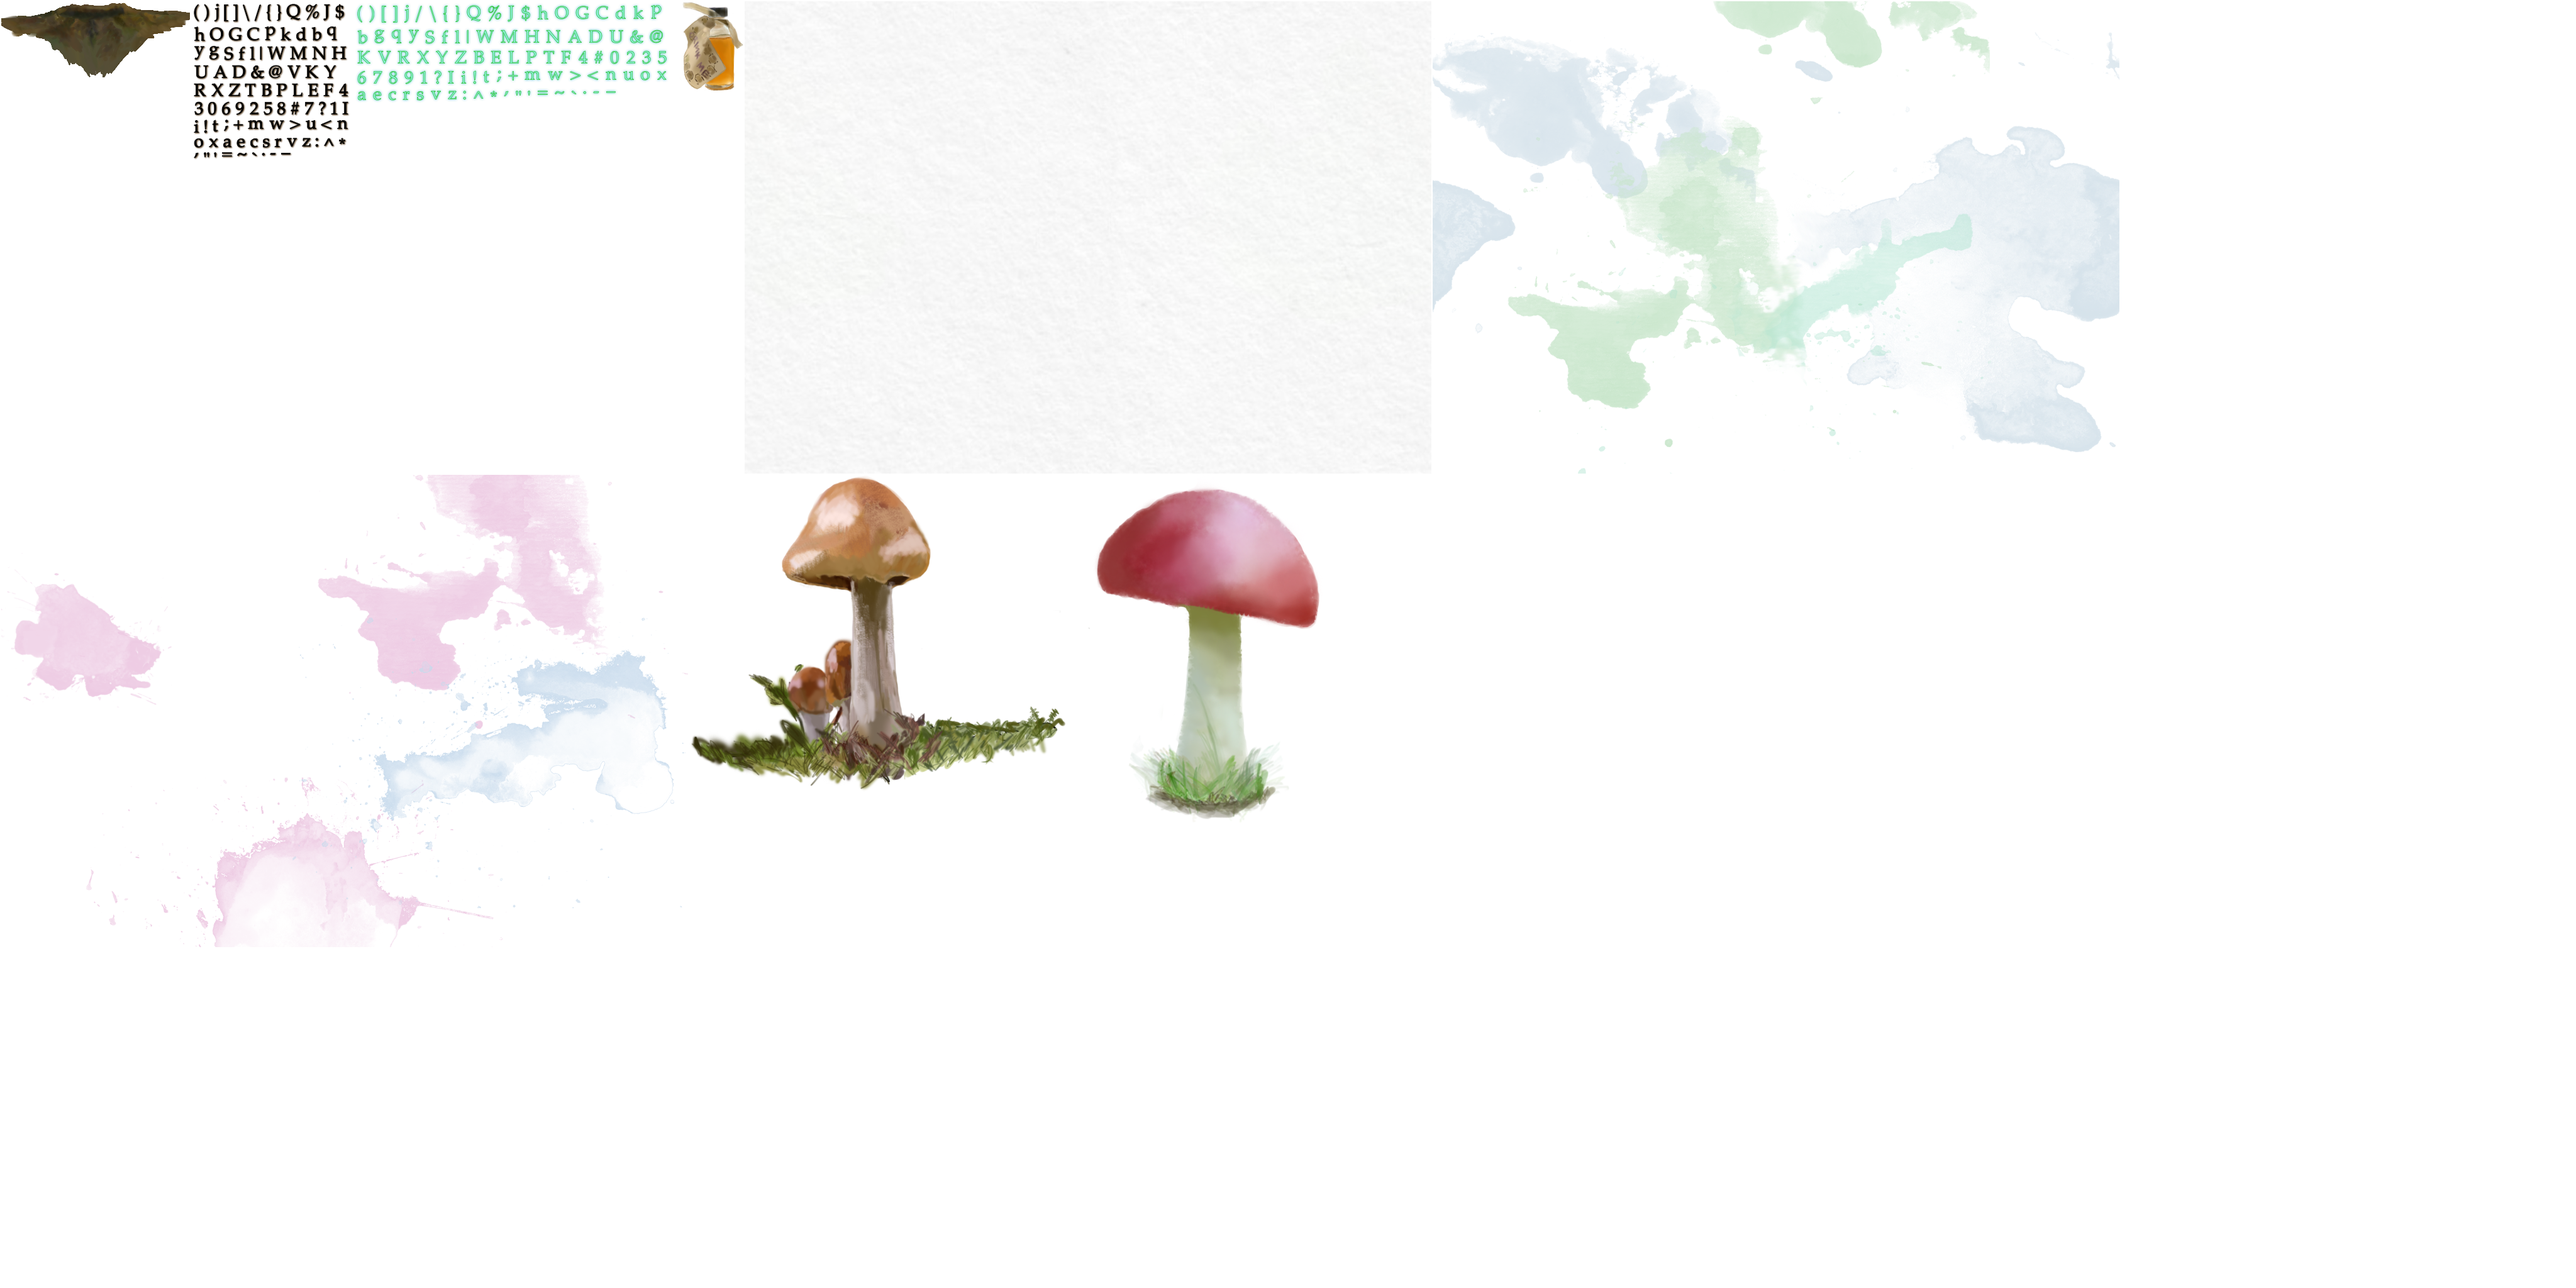
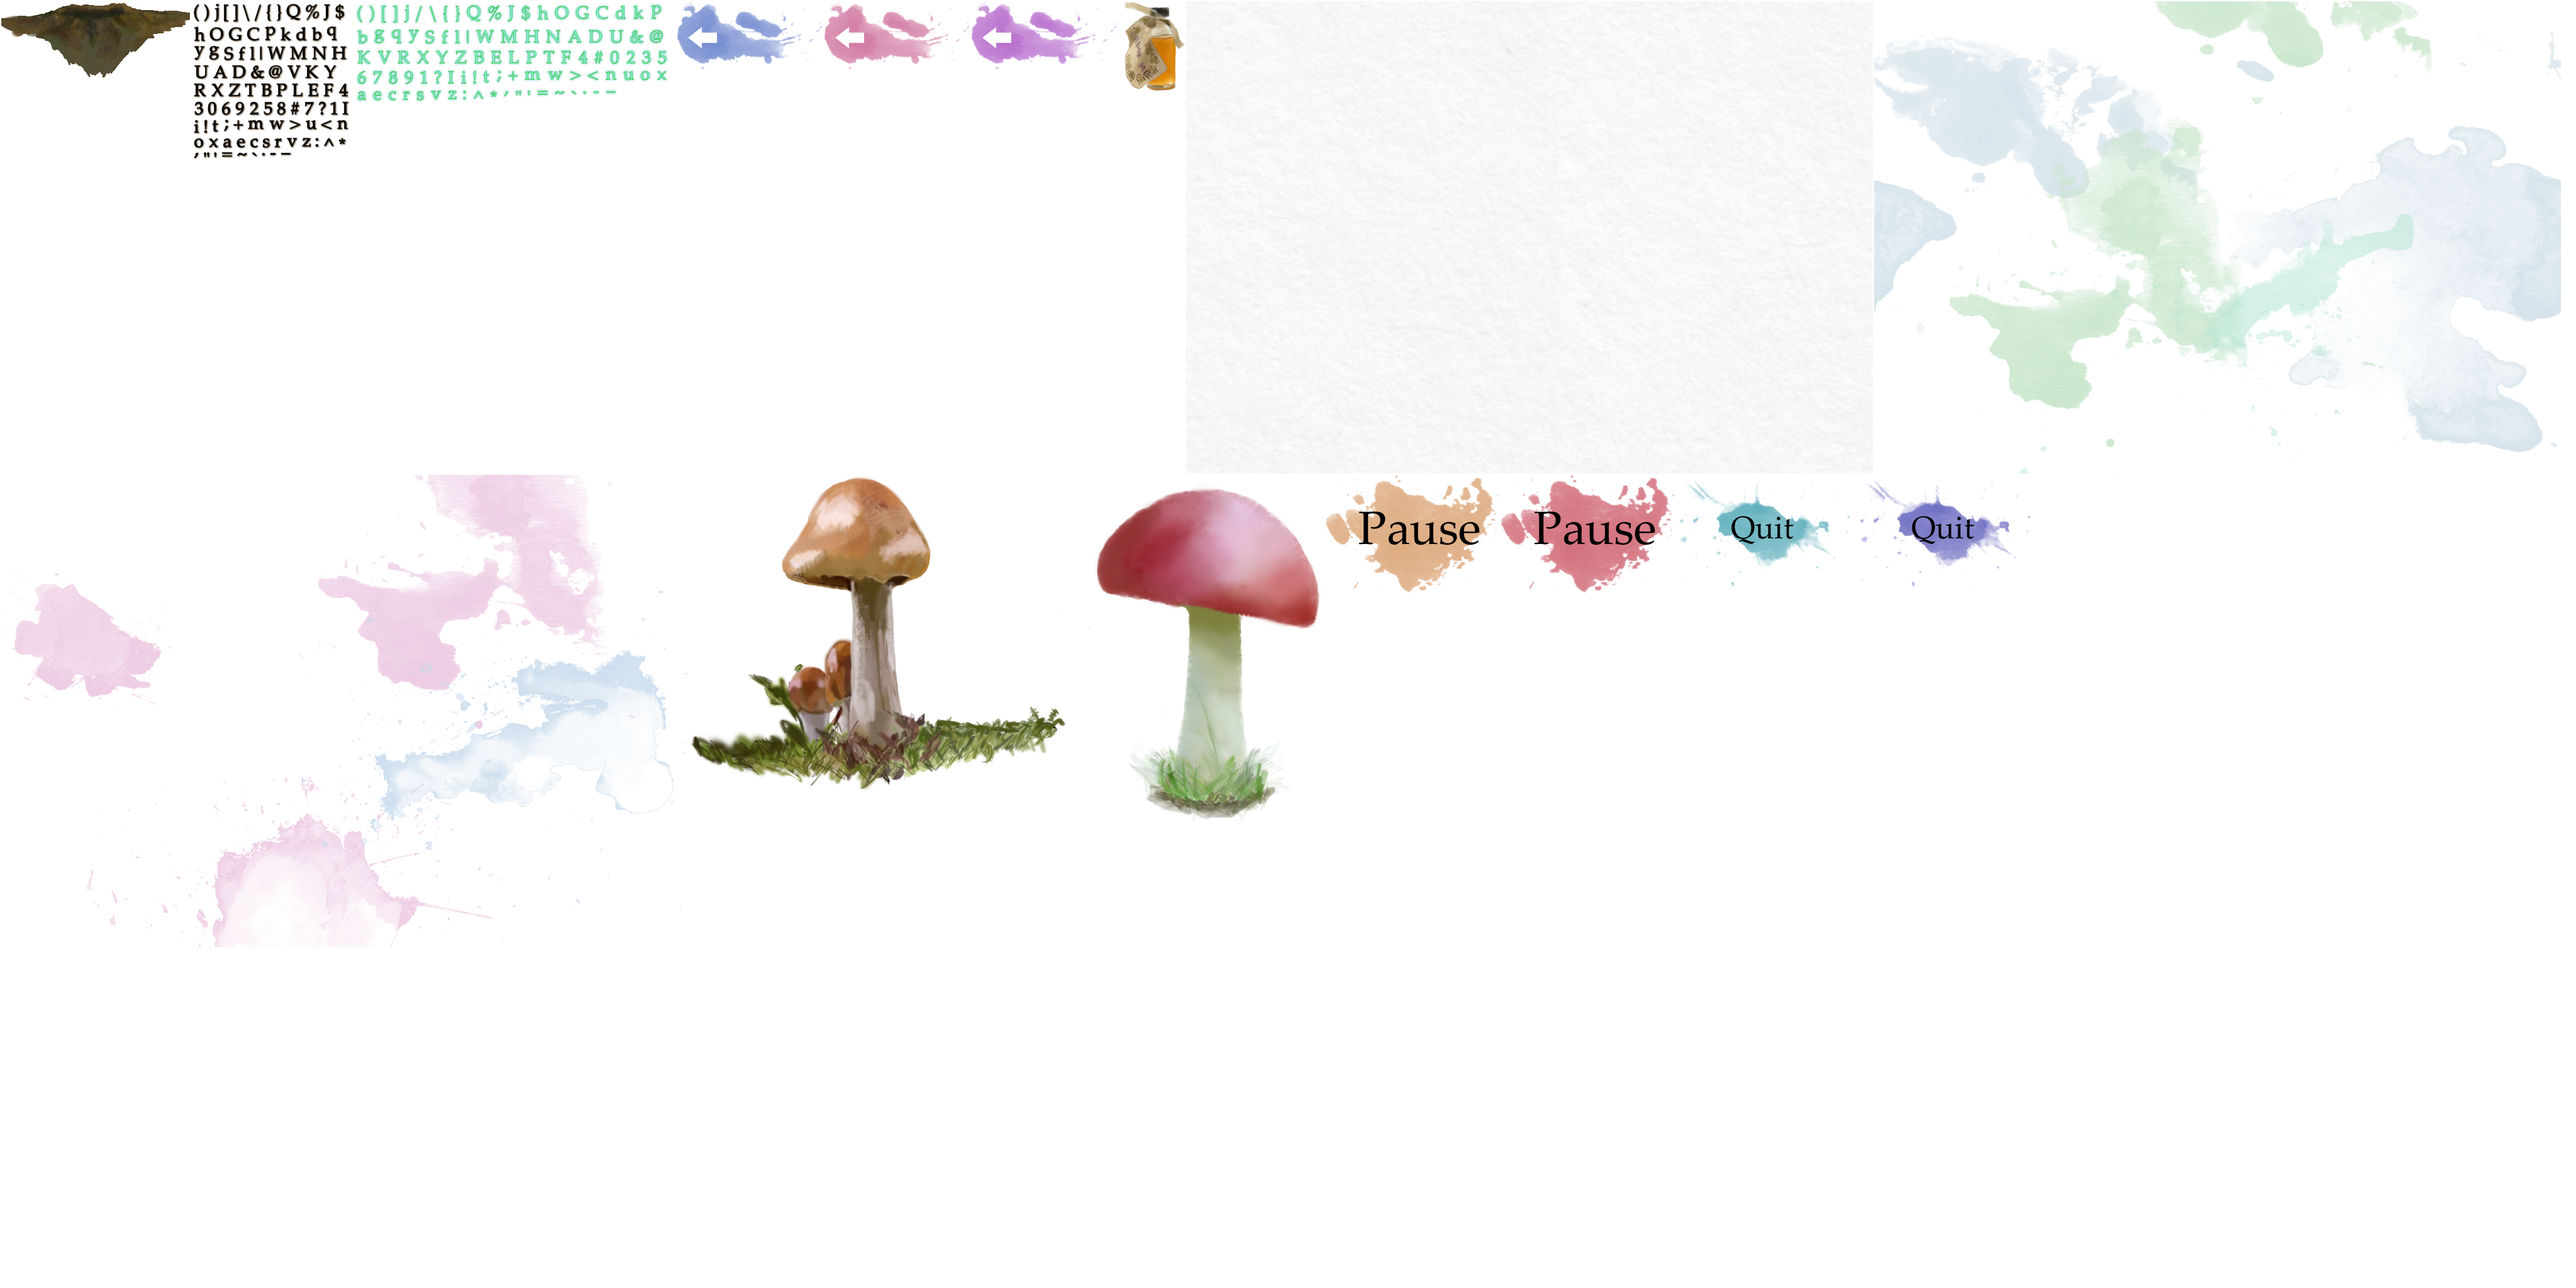
Menus
-Pause Menu and buttons
-Acheivement Menu button chnage

diff --git a/Assets/Scripts/MainGame.cs b/Assets/Scripts/MainGame.cs
@@ -6,7 +6,13 @@ using Spine;
 // remember to extend FMultiTouchableInterface! (wow that's a long title)
 public class MainGame: MonoBehaviour, FMultiTouchableInterface 
 {
+	/** Pause Stuffs **/
 	bool isPaused;
+	FContainer pauseMenu;
+	FButton backButton;
+	FButton quitButton;
+	FButton pauseButton;
+	FContainer hud;
 	
 	Vector2 deltaSwipe;
 	
@@ -74,6 +80,7 @@ public class MainGame: MonoBehaviour, FMultiTouchableInterface
 		
 		LoadTextures ();
 		SetUpStage ();
+		setUpPauseMenu ();
 		
 		foreach (MediumText t in mediumText)
 		{
@@ -113,6 +120,25 @@ public class MainGame: MonoBehaviour, FMultiTouchableInterface
 		eraser.scale=0.6f;
 		
 	}
+	
+	void setUpPauseMenu()
+	{
+		pauseMenu = new FContainer();
+		
+		backButton = new FButton("back_purple", "back_blue");
+		quitButton = new FButton("quit_blue", "quit_purple");
+		
+		backButton.scale = 0.7f;
+		
+		backButton.SetPosition(Futile.screen.width * 0.15f, Futile.screen.height * 0.85f);
+		quitButton.SetPosition(Futile.screen.width * 0.5f, Futile.screen.height * 0.3f);
+		
+		pauseMenu.AddChild(backButton);
+		pauseMenu.AddChild(quitButton);
+		
+		backButton.SignalRelease+=HandleBackButtonRelease;
+		quitButton.SignalRelease+=HandleQuitButtonRelease;
+	}
 			
 	void SetUpStage()
 	{
@@ -134,68 +160,99 @@ public class MainGame: MonoBehaviour, FMultiTouchableInterface
 		//set camera to follow girl
 		cam.setWorldBounds(new Rect(-1.5f * Futile.screen.width, -.5f*Futile.screen.height, 30*Futile.screen.width, 1.25f* Futile.screen.height));
 		cam.follow(focus);
+		
+		hud = new FContainer();
+		pauseButton = new FButton("pause_red", "pause_orange");
+		pauseButton.SetPosition(Futile.screen.width*0.95f, Futile.screen.height*0.9f);
+		pauseButton.scale=0.4f;
+		pauseButton.SignalRelease+=HandlePauseButtonRelease;
+		hud.AddChild(pauseButton);
+		cam.AddChild(hud);
+		Futile.stage.AddChild(cam);
+	}
+	
+	private void HandlePauseButtonRelease(FButton button)
+	{
+		isPaused = true;
+	}
+	
+	private void HandleBackButtonRelease(FButton button)
+	{
+		isPaused = false;
+		cam.RemoveChild(pauseMenu);
+		cam.AddChild(hud);
+		Futile.stage.AddChild(cam);
+		girl.Resume();
+	}
+	
+	private void HandleQuitButtonRelease(FButton button)
+	{
+		Application.LoadLevel("MainMenu");
 	}
 	
 	void Update()
 	{		
-		while (isPaused)
+		if (isPaused)
 		{
-			;	
+			girl.Pause();
+			cam.RemoveChild(hud);
+			cam.AddChild(pauseMenu);
+			Futile.stage.AddChild(cam);
 		}
-		
-		
-		
-		girl.Update(collisionRects); 
-		foreach (MediumText txt in twinkleText)
+		else
 		{
-			txt.Update();
-		}
-		
-		foreach (MovingPictureObstacles pic in movingObs)
-		{
-			pic.Update ();
-			collisionRects.RemoveAt(collisionRects.Count-1);
-		}
-		
-		foreach(MovingPictureObstacles pic in movingObs)
-		{
-			collisionRects.Add(pic.getRect ());
-		}
-		
-		focus.x = girl.x - Futile.screen.halfWidth;
-		focus.y = girl.y - .1f * Futile.screen.height;
-		
-		//eraser.Update ();
-		
-		if(girl.getLife ()==0)
-		{
-			Application.LoadLevel ("DeadScreen");
-		}
-		
-		if(girl.checkDoodleCollision ())
-		{
-			if(temp==null)
+			girl.Update(collisionRects); 
+			foreach (MediumText txt in twinkleText)
 			{
-				temp=girl.getCollidedDoodle ();
+				txt.Update();
 			}
 			
-			collectionTime=true;
-		}
-		
-		if(collectionTime)
-		{
-			doodleCollect--;
-			
-			if(doodleCollect==0)
+			foreach (MovingPictureObstacles pic in movingObs)
 			{
-				Debug.Log ("Goodbye friends I am gone");
-				Futile.stage.RemoveChild (girl.getCollidedDoodle ());
-				temp=null;
-				doodleCollect=60;
-				collectionTime=false;
+				pic.Update ();
+				collisionRects.RemoveAt(collisionRects.Count-1);
 			}
+			
+			foreach(MovingPictureObstacles pic in movingObs)
+			{
+				collisionRects.Add(pic.getRect ());
+			}
+			
+			focus.x = girl.x - Futile.screen.halfWidth;
+			focus.y = girl.y - .1f * Futile.screen.height;
+			
+			//eraser.Update ();
+			
+			if(girl.getLife ()==0)
+			{
+				Application.LoadLevel ("DeadScreen");
+			}
+			
+			if(girl.checkDoodleCollision ())
+			{
+				if(temp==null)
+				{
+					temp=girl.getCollidedDoodle ();
+				}
+				
+				collectionTime=true;
+			}
+			
+			if(collectionTime)
+			{
+				doodleCollect--;
+				
+				if(doodleCollect==0)
+				{
+					Debug.Log ("Goodbye friends I am gone");
+					Futile.stage.RemoveChild (girl.getCollidedDoodle ());
+					temp=null;
+					doodleCollect=60;
+					collectionTime=false;
+				}
+			}
+			updateBackground();
 		}
-		updateBackground();
 	}
 	
 	/*-----------------------------------------
@@ -205,7 +262,8 @@ public class MainGame: MonoBehaviour, FMultiTouchableInterface
 	 * ---------------------------------------*/
 	public void HandleMultiTouch(FTouch[] touches)
 	{
-
+		if(!isPaused)
+		{
 		foreach(FTouch touch in touches)
 		{
 			if(touch.phase == TouchPhase.Began)
@@ -366,6 +424,7 @@ public class MainGame: MonoBehaviour, FMultiTouchableInterface
 					}
 					
 				}
+		}
 		}
 	}
 		

diff --git a/Assets/Scripts/AcheivementMenu.cs b/Assets/Scripts/AcheivementMenu.cs
@@ -26,10 +26,10 @@ public class AcheivementMenu: MonoBehaviour
 		background.SetPosition(Futile.screen.width/2f, background.height/2f);
 		Futile.stage.AddChild (background);
 	
-		back = new FButton("Achievments1", "Achievment2");
+		back = new FButton("back_pink", "back_purple");
 		
-		back.scale=0.2f;
-		back.SetPosition (Futile.screen.width*0.05f, Futile.screen.height*0.05f);
+		back.scale=0.6f;
+		back.SetPosition (Futile.screen.width*0.1f, Futile.screen.height*0.1f);
 		
 		Futile.stage.AddChild (back);
 		

diff --git a/Assets/Scripts/Menu.cs b/Assets/Scripts/Menu.cs
@@ -35,7 +35,7 @@ public class Menu: MonoBehaviour
 		
 		start.SetPosition (Futile.screen.width*0.4f, Futile.screen.height*0.4f);
 		
-		acheivements.scale = 0.9f;
+		acheivements.scale = 0.8f;
 		acheivements.SetPosition (Futile.screen.width*0.4f, Futile.screen.height*0.1f);
 		
 		logo.SetPosition (Futile.screen.width*0.4f, Futile.screen.height*0.7f);
